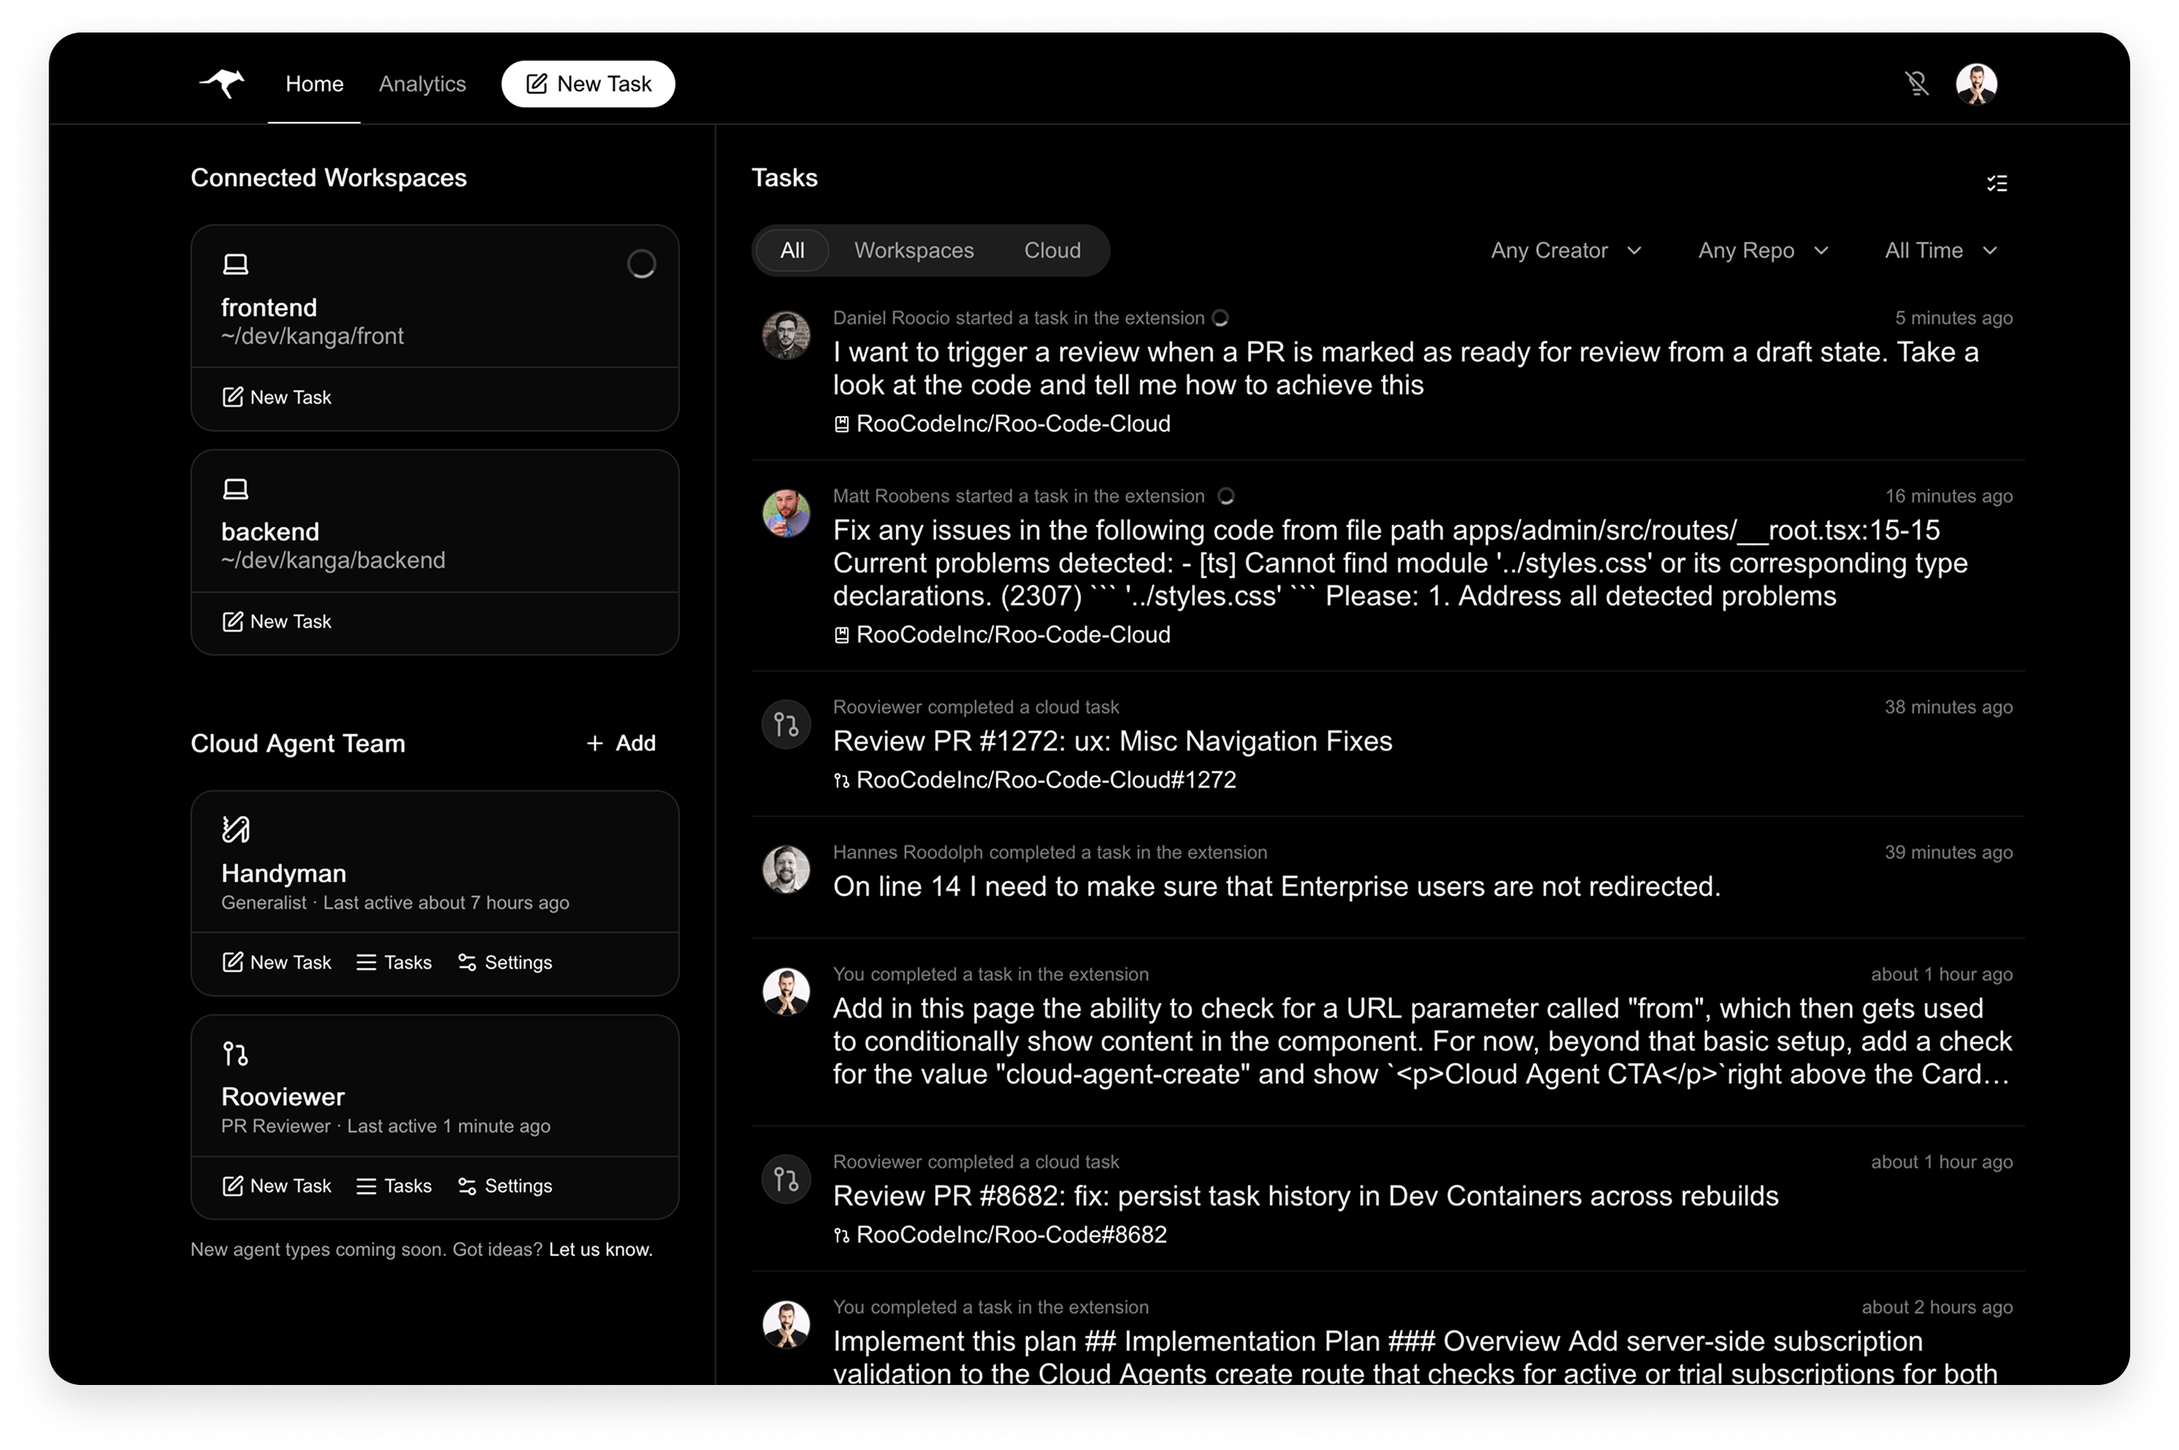
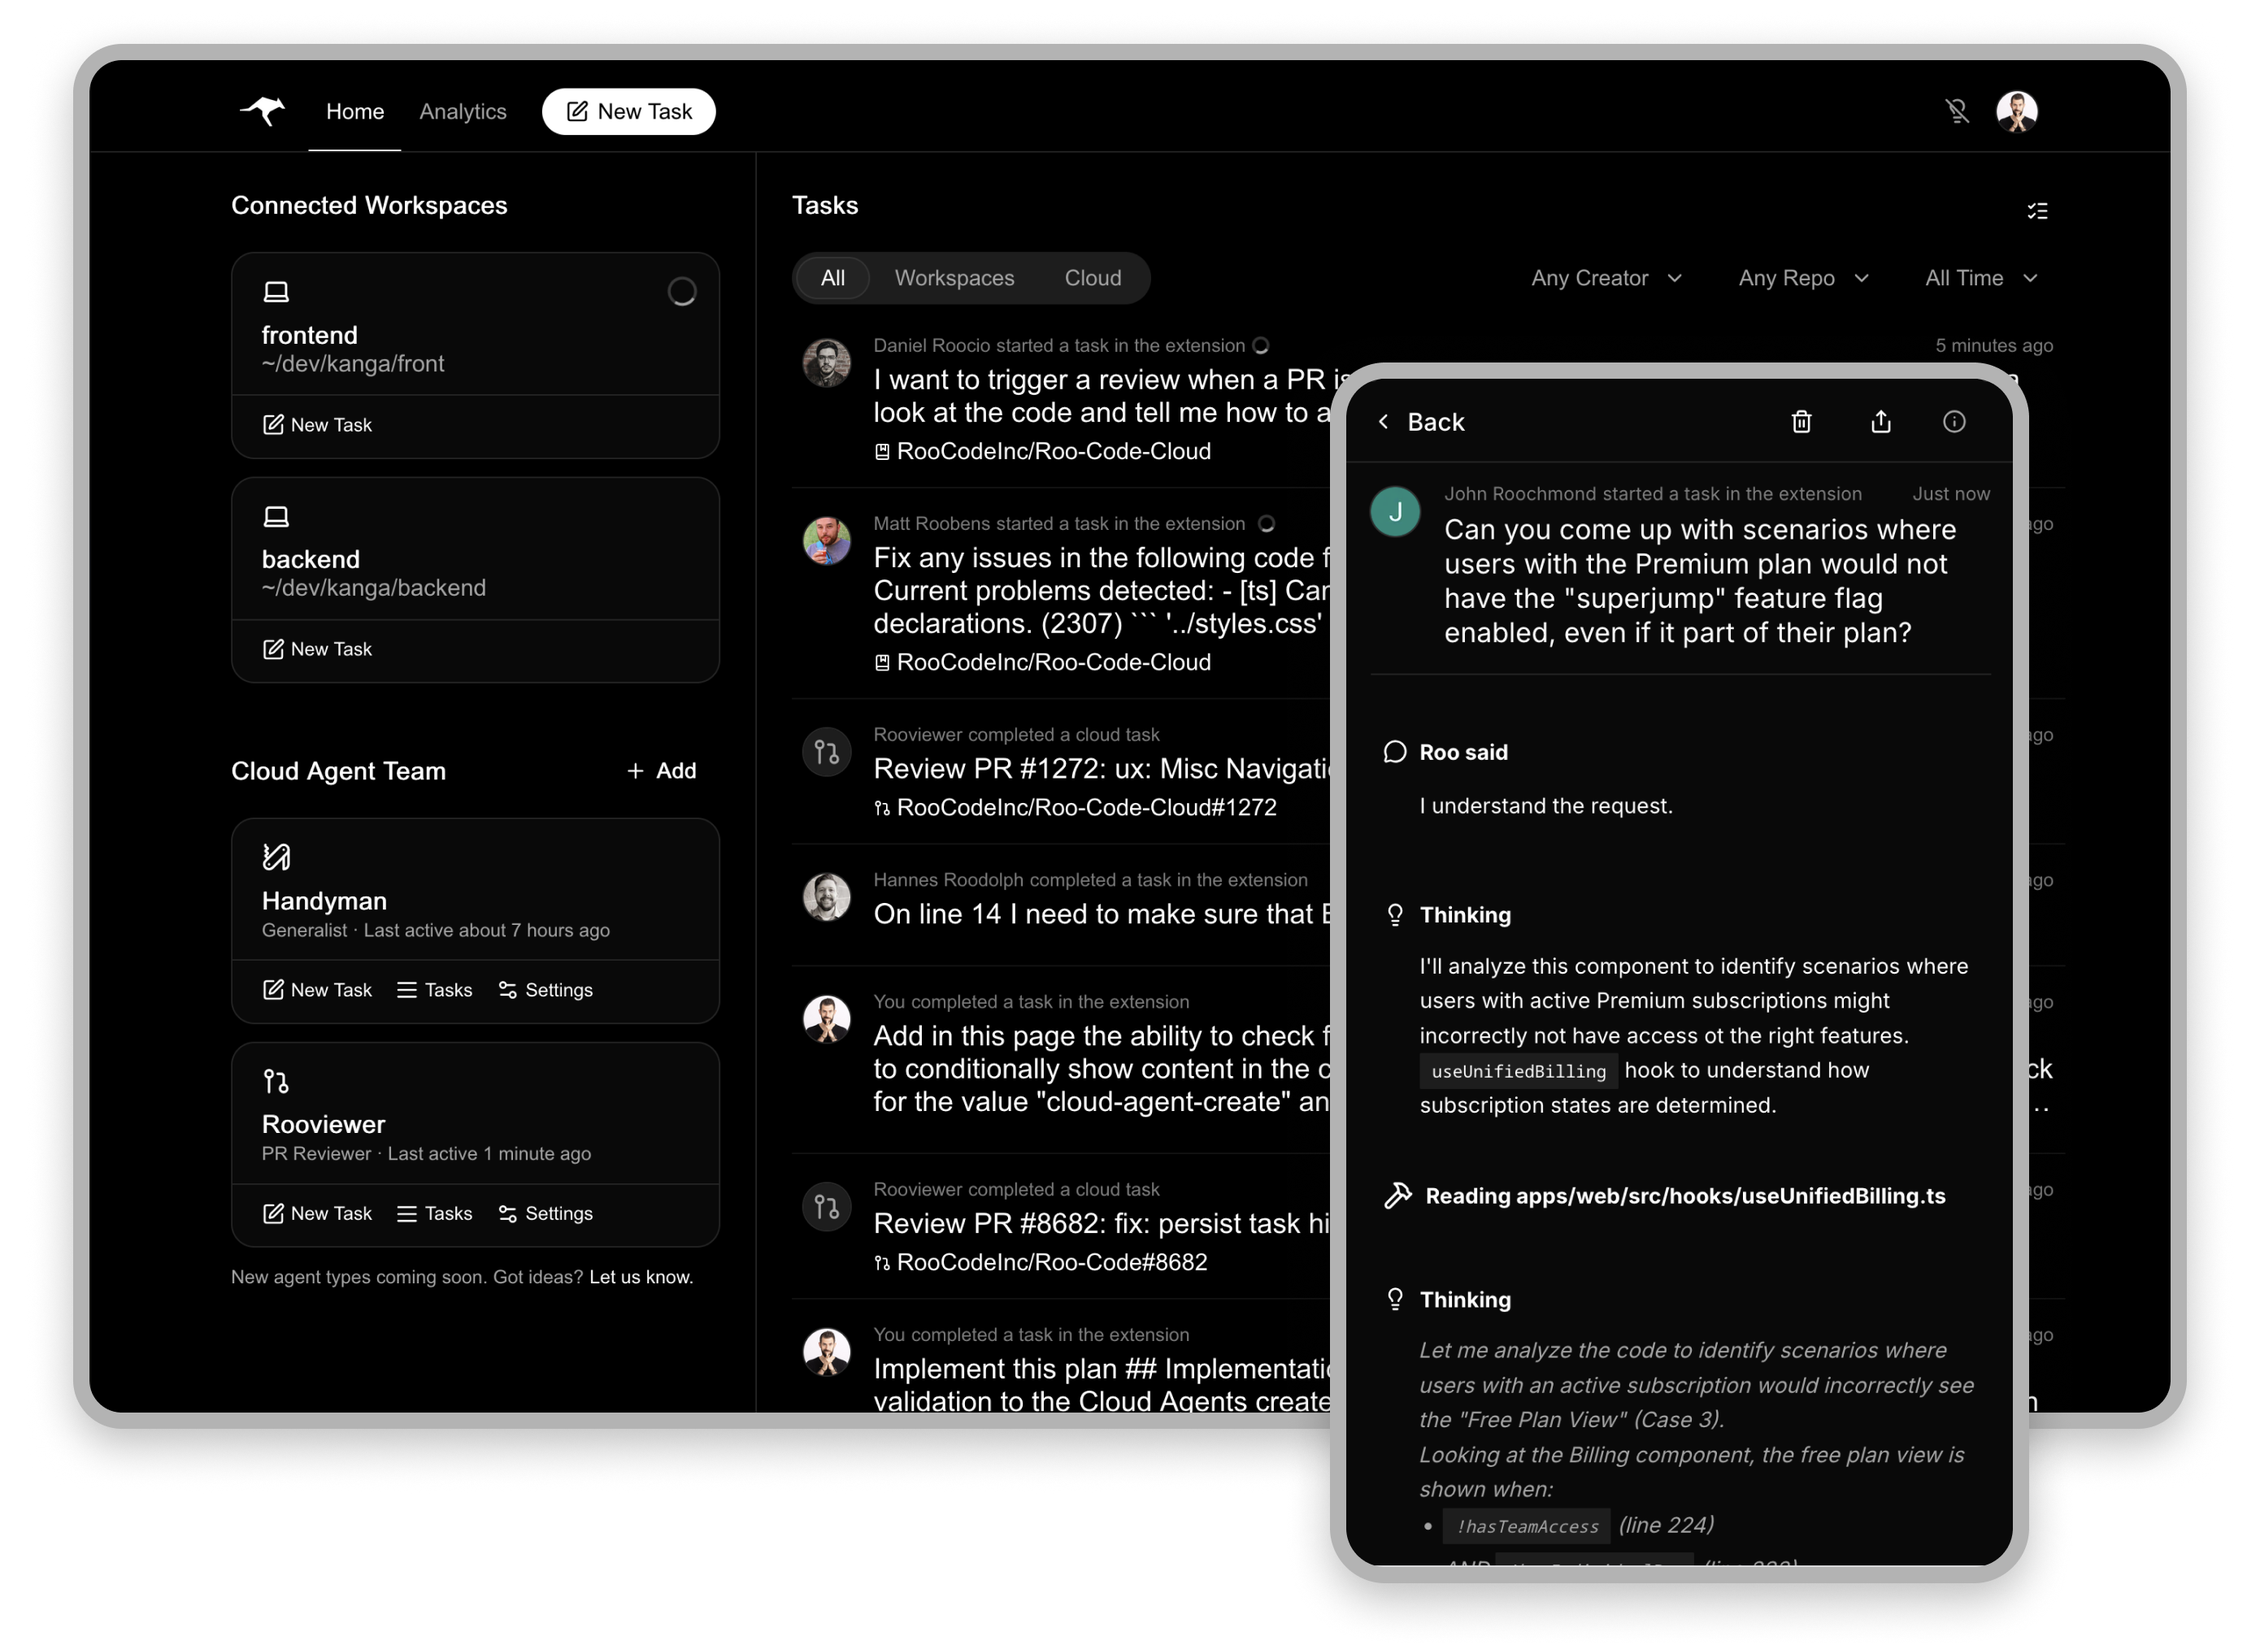
web: Mobile image in /cloud (#8705)

diff --git a/apps/web-roo-code/src/app/cloud/page.tsx b/apps/web-roo-code/src/app/cloud/page.tsx
@@ -124,7 +124,7 @@ export default function CloudPage() {
 			<section className="relative flex md:h-[calc(80vh-theme(spacing.12))] items-center overflow-hidden">
 				<AnimatedBackground />
 				<div className="container relative flex items-center h-full z-10 mx-auto px-4 sm:px-6 lg:px-8">
-					<div className="grid h-full relative gap-8 md:gap-12 lg:grid-cols-2 lg:gap-16">
+					<div className="grid h-full relative gap-4 md:gap-0 lg:grid-cols-2">
 						<div className="flex flex-col px-4 justify-center space-y-6 sm:space-y-8">
 							<div>
 								<h1 className="text-4xl font-bold tracking-tight mt-8 text-center md:text-left md:text-4xl lg:text-5xl lg:mt-0">
@@ -152,14 +152,14 @@ export default function CloudPage() {
 							</div>
 						</div>
 						<div className="flex items-center justify-end mx-auto h-full mt-8 lg:mt-0">
-							<div className="md:w-[900px] md:h-[530px]  bg-black dark:bg-white relative rounded-md overflow-clip shadow-2xl">
+							<div className="md:w-[900px] md:h-[700px]  dark:bg-white relative rounded-md overflow-clip">
 								<div className="block">
 									<Image
 										src={screenshotDark}
 										alt="Screenshot of Roo Code Cloud"
 										className="max-w-full h-auto"
-										width={2680}
-										height={1784}
+										width={1390}
+										height={1012}
 									/>
 								</div>
 							</div>
